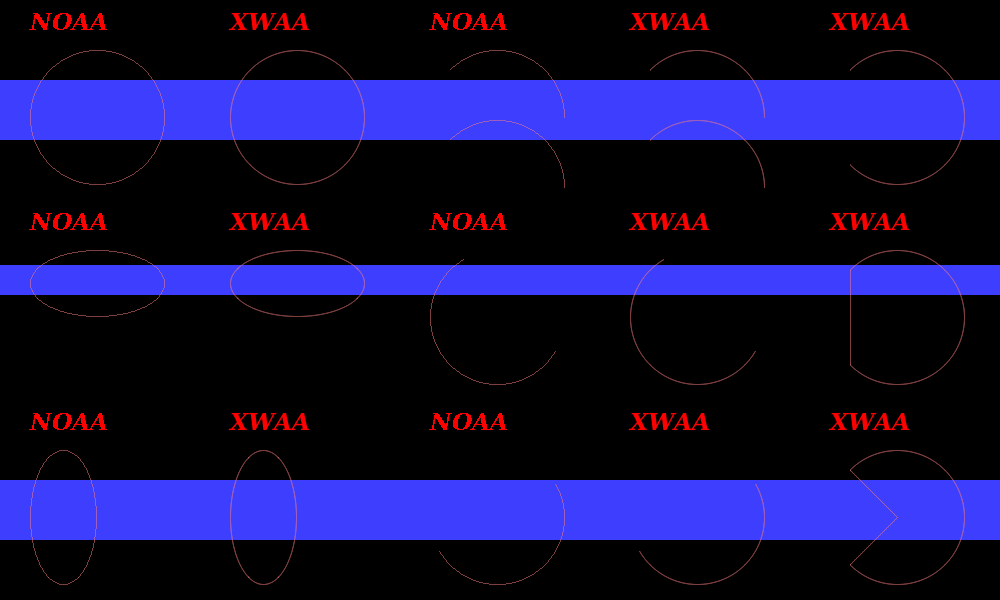
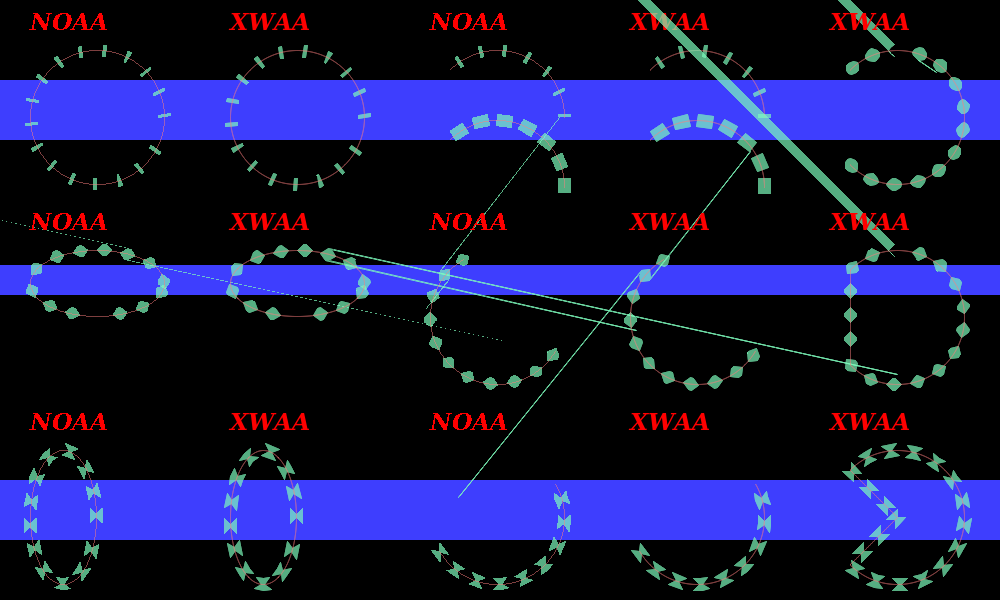
Working on patterned thick lines

diff --git a/src/Pt-Gfx/ImagePainter2.cpp b/src/Pt-Gfx/ImagePainter2.cpp
@@ -122,7 +122,7 @@ static inline bool intersectLine(bool& inLine, PointF& intersect, const PointF& 
 //           http://wm.ite.pl/articles/convex-polygon-intersection/demo/demo.xhtml
 //           http://wm.ite.pl/articles/convex-polygon-intersection/demo/SAT.js
 //           Public domain code by Wojciech Muła, 2013-2017
-static inline void satProjection(float& min, float& max, const PointF* points, size_t pointCount, const PointF& p)
+static inline void satDPIProjection(float& min, float& max, const PointF* points, size_t pointCount, const PointF& p)
 {
     min = points[0].x() * p.x() + points[0].y() * p.y();
     max = min;
@@ -139,8 +139,10 @@ static inline void satProjection(float& min, float& max, const PointF* points, s
 //           http://wm.ite.pl/articles/convex-polygon-intersection/demo/demo.xhtml
 //           http://wm.ite.pl/articles/convex-polygon-intersection/demo/SAT.js
 //           Public domain code by Wojciech Muła, 2013-2017
-static inline bool satProcess(const PointF* poly1, size_t poly1Count, const PointF* poly2, size_t poly2Count)
+static inline bool satDPIProcess(const PointF* poly1, size_t poly1Count, const PointF* poly2, size_t poly2Count)
 {
+    // ### TODO: NOT WORKING PROPERLY !!! ###
+
     #define FIX_INDEX(I, M)  ( ( (I) < 0 ) ? ( (I) + (M) ) : ( ( (I) >= (M) ) ? ( (I) - (M) ) : (I) ) )
 
     for(size_t i = 0; i < poly1Count; ++i) {
@@ -156,8 +158,8 @@ static inline bool satProcess(const PointF* poly1, size_t poly1Count, const Poin
         const PointF p(-dy, dx);
               float min1, max1;
               float min2, max2;
-        satProjection(min1, max1, poly1, poly1Count, p);
-        satProjection(min2, max2, poly2, poly2Count, p);
+        satDPIProjection(min1, max1, poly1, poly1Count, p);
+        satDPIProjection(min2, max2, poly2, poly2Count, p);
         // Check for interection
         if(max1 <= min2 || min1 >= max2) return true;
     }
@@ -168,12 +170,12 @@ static inline bool satProcess(const PointF* poly1, size_t poly1Count, const Poin
     return false;
 }
 
-static inline bool satDetectIntersection(const PointF* poly1, size_t poly1Count, const PointF* poly2, size_t poly2Count)
+static inline bool satDetectPolygonIntersection(const PointF* poly1, size_t poly1Count, const PointF* poly2, size_t poly2Count)
 {
-    const bool i1 = satProcess(poly1, poly1Count, poly2, poly2Count);
+    const bool i1 = satDPIProcess(poly1, poly1Count, poly2, poly2Count);
     if(i1) return false;
 
-    const bool i2 = satProcess(poly2, poly2Count, poly1, poly1Count);
+    const bool i2 = satDPIProcess(poly2, poly2Count, poly1, poly1Count);
     if(i2) return false;
 
     return true;
@@ -184,7 +186,7 @@ static inline bool satDetectIntersection(const PointF* poly1, size_t poly1Count,
 //           http://wm.ite.pl/articles/convex-polygon-intersection/demo/demo.xhtml
 //           http://wm.ite.pl/articles/convex-polygon-intersection/demo/line.js
 //           Public domain code by Wojciech Muła, 2013-2017
-static inline Pt::int32_t naiveLineSide(float la, float lb, float lc, const PointF& p)
+static inline Pt::int32_t naiveDPILineSide(float la, float lb, float lc, const PointF& p)
 {
     const Pt::int32_t val = la * p.x() + lb * p.y() + lc;
 
@@ -199,10 +201,10 @@ static inline Pt::int32_t naiveLineSide(float la, float lb, float lc, const Poin
 //           http://wm.ite.pl/articles/convex-polygon-intersection/demo/demo.xhtml
 //           http://wm.ite.pl/articles/convex-polygon-intersection/demo/naive.js
 //           Public domain code by Wojciech Muła, 2013-2017
-static inline Pt::int32_t naiveGetSide(float la, float lb, float lc, const PointF& p1, const PointF& p2)
+static inline Pt::int32_t naiveDPIGetSide(float la, float lb, float lc, const PointF& p1, const PointF& p2)
 {
-    const Pt::int32_t s1 = naiveLineSide(la, lb, lc, p1);
-    const Pt::int32_t s2 = naiveLineSide(la, lb, lc, p2);
+    const Pt::int32_t s1 = naiveDPILineSide(la, lb, lc, p1);
+    const Pt::int32_t s2 = naiveDPILineSide(la, lb, lc, p2);
 
     const Pt::int32_t s  = s1 * s2;
 
@@ -221,8 +223,10 @@ static inline Pt::int32_t naiveGetSide(float la, float lb, float lc, const Point
 //           http://wm.ite.pl/articles/convex-polygon-intersection/demo/demo.xhtml
 //           http://wm.ite.pl/articles/convex-polygon-intersection/demo/naive.js
 //           Public domain code by Wojciech Muła, 2013-2017
-static inline bool naiveDetectIntersection(const PointF* poly1, size_t poly1Count, const PointF* poly2, size_t poly2Count)
+static inline bool naiveDetectPolygonIntersection(const PointF* poly1, size_t poly1Count, const PointF* poly2, size_t poly2Count)
 {
+    // ### TODO: NOT WORKING PROPERLY !!! ###
+
     #define FIX_INDEX(I, M)  ( ( (I) < 0 ) ? ( (I) + (M) ) : ( ( (I) >= (M) ) ? ( (I) - (M) ) : (I) ) )
 
     for(size_t i = 0; i < poly1Count; ++i) {
@@ -240,8 +244,8 @@ static inline bool naiveDetectIntersection(const PointF* poly1, size_t poly1Coun
             const float lb = -( b2.x() - a2.x() );
             const float lc = -( la * a2.x() + lb * a2.y() );
             // Get the sides
-            const Pt::int32_t sideA = naiveGetSide(la, lb, lc, a1, a3);
-            const Pt::int32_t sideB = naiveGetSide(la, lb, lc, b1, b3);
+            const Pt::int32_t sideA = naiveDPIGetSide(la, lb, lc, a1, a3);
+            const Pt::int32_t sideB = naiveDPIGetSide(la, lb, lc, b1, b3);
             if(sideA == 0xFF || sideB == 0xFF) continue;
             if(sideA * sideB < 0) return true;
         }
@@ -252,12 +256,48 @@ static inline bool naiveDetectIntersection(const PointF* poly1, size_t poly1Coun
     return false;
 }
 
-static inline bool polyDetectIntersection(const PointF* poly1, size_t poly1Count, const PointF* poly2, size_t poly2Count)
+static inline bool bboxDetectPolygonIntersection(const PointF* poly1, size_t poly1Count, const PointF* poly2, size_t poly2Count)
 {
-    // ### TODO: NOT WORKING !!! ###
+    float minX1 = poly1[0].x();
+    float minY1 = poly1[0].y();
+    float maxX1 = minX1;
+    float maxY1 = minY1;
+    for(size_t i = 1; i < poly1Count; ++i) {
+        if(poly1[i].x() < minX1) minX1 = poly1[i].x();
+        if(poly1[i].y() < minY1) minY1 = poly1[i].y();
+        if(poly1[i].x() > maxX1) maxX1 = poly1[i].x();
+        if(poly1[i].y() > maxY1) maxY1 = poly1[i].y();
+    }
+
+    float minX2 = poly2[0].x();
+    float minY2 = poly2[0].y();
+    float maxX2 = minX2;
+    float maxY2 = minY2;
+    for(size_t i = 1; i < poly2Count; ++i) {
+        if(poly2[i].x() < minX2) minX2 = poly2[i].x();
+        if(poly2[i].y() < minY2) minY2 = poly2[i].y();
+        if(poly2[i].x() > maxX2) maxX2 = poly2[i].x();
+        if(poly2[i].y() > maxY2) maxY2 = poly2[i].y();
+    }
+
+#define CHECK_IF_INSIDE_BOUNDING_BOX(X, Y, X1, Y1, X2, Y2) if( (X) >= (X1) && (X) <= (X2) && (Y) >= (Y1) && Y <= (Y2) ) return true
+
+    CHECK_IF_INSIDE_BOUNDING_BOX(minX2, minY2, minX1, minY1, maxX1, maxY1);
+    CHECK_IF_INSIDE_BOUNDING_BOX(minX2, maxY2, minX1, minY1, maxX1, maxY1);
+    CHECK_IF_INSIDE_BOUNDING_BOX(maxX2, minY2, minX1, minY1, maxX1, maxY1);
+    CHECK_IF_INSIDE_BOUNDING_BOX(maxX2, maxY2, minX1, minY1, maxX1, maxY1);
+
+#undef CHECK_INSIDE_BOUNDING_BOX
+
     return false;
-    return satDetectIntersection  (poly1, poly1Count, poly2, poly2Count);
-    return naiveDetectIntersection(poly1, poly1Count, poly2, poly2Count);
+}
+
+static inline bool detectPolygonIntersection(const PointF* poly1, size_t poly1Count, const PointF* poly2, size_t poly2Count)
+{
+      return false;
+    //return bboxDetectPolygonIntersection (poly1, poly1Count, poly2, poly2Count);
+    //return satDetectPolygonIntersection  (poly1, poly1Count, poly2, poly2Count);
+    //return naiveDetectPolygonIntersection(poly1, poly1Count, poly2, poly2Count);
 }
 
 
@@ -897,6 +937,13 @@ void ImagePainter2::drawEllipse( const PointF& topLeft, const SizeF& size )
         return;
     }
 
+    // Calculate the ellipse's parameters
+    const size_t      penSize  = _rasterizer->pen().size();
+    const Pt::int32_t radiusX  = size.width () / 2;
+    const Pt::int32_t radiusY  = size.height() / 2;
+    const Pt::int32_t centerX  = topLeft.x() + radiusX;
+    const Pt::int32_t centerY  = topLeft.y() + radiusY;
+
     // Save the original pen and create a new pen with miter join
     const Pen orgPen = _rasterizer->pen();
 
@@ -905,14 +952,11 @@ void ImagePainter2::drawEllipse( const PointF& topLeft, const SizeF& size )
 
     // Solid
     if(_rasterizer->pen().style() == Pen::Solid) {
-        // Calculate the ellipse's parameters
-        const size_t      penSize  = _rasterizer->pen().size();
+        // Calculate the additional ellipse's parameters
         const Pt::int32_t radiusXo = ( size.width () + penSize ) / 2;
         const Pt::int32_t radiusYo = ( size.height() + penSize ) / 2;
         const Pt::int32_t radiusXi = ( size.width () - penSize ) / 2;
         const Pt::int32_t radiusYi = ( size.height() - penSize ) / 2;
-        const Pt::int32_t centerX  = topLeft.x() + size.width () / 2;
-        const Pt::int32_t centerY  = topLeft.y() + size.height() / 2;
         // Generate a polygon that approximates the ellipse
         std::vector<Point> points;
         generateEllipsePoints(points, radiusXo, radiusYo, centerX, centerY);
@@ -926,7 +970,18 @@ void ImagePainter2::drawEllipse( const PointF& topLeft, const SizeF& size )
 
     // Patterned
     else {
-        // ### TODO ###
+        // Generate a polygon that approximates the ellipse
+        std::vector<Point> points;
+        generateEllipsePoints(points, radiusX, radiusY, centerX, centerY);
+        // Convert the points
+        std::vector<PointF> pointsF(points.size());
+        for(size_t i = 0; i < points.size(); ++i) {
+            pointsF[i].set( points[i].x(), points[i].y() );
+        }
+        // Rasterize the polygon
+        _rasterizer->setPen(newPen);
+        drawThickPolyline_impl(pointsF.data(), pointsF.size(), false, 0);
+        _rasterizer->setPen(orgPen);
     }
 }
 
@@ -951,12 +1006,6 @@ void ImagePainter2::drawArc( const PointF& topLeft, const SizeF& size, float deg
         _rasterizer->strokeOnePixelEllipseArc(tl, sz, degBegin, degEnd, arcMode);
         return;
     }
-
-    // Save the original pen and create a new pen with miter join
-    const Pen orgPen = _rasterizer->pen();
-
-    Pen newPen = orgPen;
-    newPen.setJoinStyle(Pen::MiterJoin);
 
     // Ensure that the begin angle is within the acceptable range
     while(degBegin < -360.0f) degBegin += 360.0f;
@@ -987,15 +1036,25 @@ void ImagePainter2::drawArc( const PointF& topLeft, const SizeF& size, float deg
     const float idegBegin = (degBegin < 0) ? (degBegin + aafd) : (degBegin - aafd);
     const float idegEnd   = (degEnd   < 0) ? (degEnd   + aafd) : (degEnd   - aafd);
 
+    // Calculate the arc's parameters
+    const Pt::int32_t radiusX = size.width () / 2;
+    const Pt::int32_t radiusY = size.height() / 2;
+    const Pt::int32_t centerX = topLeft.x() + radiusX;
+    const Pt::int32_t centerY = topLeft.y() + radiusY;
+
+    // Save the original pen and create a new pen with miter join
+    const Pen orgPen = _rasterizer->pen();
+
+    Pen newPen = orgPen;
+    newPen.setJoinStyle(Pen::MiterJoin);
+
     // Solid
     if(_rasterizer->pen().style() == Pen::Solid) {
-        // Calculate the arc's parameters
+        // Calculate the additional arc's parameters
         const Pt::int32_t radiusXo   = ( size.width () + penSize ) / 2;
         const Pt::int32_t radiusYo   = ( size.height() + penSize ) / 2;
         const Pt::int32_t radiusXi   = ( size.width () - penSize ) / 2;
         const Pt::int32_t radiusYi   = ( size.height() - penSize ) / 2;
-        const Pt::int32_t centerX    = topLeft.x() + size.width () / 2;
-        const Pt::int32_t centerY    = topLeft.y() + size.height() / 2;
         const Pt::int32_t centerXsub = round(centerX - shiftXps);
         const Pt::int32_t centerYsub = round(centerY - shiftYps);
         const Pt::int32_t centerXadd = round(centerX + shiftXps);
@@ -1035,7 +1094,29 @@ void ImagePainter2::drawArc( const PointF& topLeft, const SizeF& size, float deg
 
     // Patterned
     else {
-        // ### TODO ###
+        // Generate a polygon that approximates the arc
+        std::vector<Point> points;
+        if(arcMode == ArcMode::Chord) {
+            generateArcPoints(points, radiusX, radiusY, centerX, centerY, degBegin, degEnd);
+            points.push_back( points[0] );
+        }
+        else if(arcMode == ArcMode::Pie) {
+            points.push_back( Point(centerX, centerY) );
+            generateArcPoints(points, radiusX, radiusY, centerX, centerY, degBegin, degEnd);
+            points.push_back( Point(centerX, centerY) );
+        }
+        else { // ArcMode::Open
+            generateArcPoints(points, radiusX, radiusY, centerX, centerY, degBegin, degEnd);
+        }
+        // Convert the points
+        std::vector<PointF> pointsF(points.size());
+        for(size_t i = 0; i < points.size(); ++i) {
+            pointsF[i].set( points[i].x(), points[i].y() );
+        }
+        // Rasterize the polygon
+        _rasterizer->setPen(newPen);
+        drawThickPolyline_impl(pointsF.data(), pointsF.size(), false, 0);
+        _rasterizer->setPen(orgPen);
     }
 }
 
@@ -1706,14 +1787,14 @@ bool ImagePainter2::sagPolygonPoints(SAGOpState& state, bool draw)
                 // Check for intersection with the first polygons in the final destination buffer
                 bool intersect = false;
                 if(state.dstPCount0) {
-                    intersect = polyDetectIntersection(&state.dstPoints[0], state.dstPCount0, dstPoints.data(), dstPoints.size());
+                    intersect = detectPolygonIntersection(&state.dstPoints[0], state.dstPCount0, dstPoints.data(), dstPoints.size());
                 }
                 else {
                     state.dstPCount0 = dstPoints.size();
                 }
                 // Check for intersection with the previous polygons in the final destination buffer
                 if(!intersect && state.dstPCount && state.dstPStart) {
-                    intersect = polyDetectIntersection(&state.dstPoints[state.dstPStart], state.dstPCount,  dstPoints.data(), dstPoints.size());
+                    intersect = detectPolygonIntersection(&state.dstPoints[state.dstPStart], state.dstPCount,  dstPoints.data(), dstPoints.size());
                 }
                 if(!intersect) {
                     state.dstPStart = state.dstPoints.size();
@@ -1836,7 +1917,7 @@ void ImagePainter2::sagGenerateSimpleLineSegment(SAGOpState& state, float x1, fl
 
     // Check for intersection with the first polygons in the final destination buffer
     if(state.dstPCount0) {
-        if( polyDetectIntersection(&state.dstPoints[0], state.dstPCount0, dstPoints.data(), dstPoints.size()) ) return;
+        if( detectPolygonIntersection(&state.dstPoints[0], state.dstPCount0, dstPoints.data(), dstPoints.size()) ) return;
     }
     else {
         state.dstPCount0 = dstPoints.size();
@@ -1844,7 +1925,7 @@ void ImagePainter2::sagGenerateSimpleLineSegment(SAGOpState& state, float x1, fl
 
     // Check for intersection with the previous polygons in the final destination buffer
     if(state.dstPCount && state.dstPStart) {
-        if( polyDetectIntersection(&state.dstPoints[state.dstPStart], state.dstPCount,  dstPoints.data(), dstPoints.size()) ) return;
+        if( detectPolygonIntersection(&state.dstPoints[state.dstPStart], state.dstPCount,  dstPoints.data(), dstPoints.size()) ) return;
     }
     state.dstPStart = state.dstPoints.size();
     state.dstPCount = dstPoints.size();

diff --git a/src/Pt-Gfx/tests/ImagePainterTest2.cpp b/src/Pt-Gfx/tests/ImagePainterTest2.cpp
@@ -68,7 +68,7 @@ using namespace Pt::Gfx;
 
 // General settings for Pt-Gfx
 #define DO_TEST_DRAW    1
-#define DO_BENCHMARKING 0
+#define DO_BENCHMARKING 1
 
 // Detailed-test enable settings for Pt-Gfx
 #define TEST_SOURCECOPY                         0
@@ -83,7 +83,7 @@ using namespace Pt::Gfx;
 #define TEST_DRAW_ROUND_OMPF_RECTANGLES         0 // (including thick and filled) // ### TODO: Missing pattern !!! ###
 #define TEST_DRAW_ELLIPSES_ARCS                 0
 #define TEST_DRAW_SOLID_THICK_ELLIPSES_ARCS     0
-#define TEST_DRAW_PATTERNED_THICK_ELLIPSES_ARCS 0
+#define TEST_DRAW_PATTERNED_THICK_ELLIPSES_ARCS 0                                 // ### TODO: Stra lines !!! ###
 
 #define TEST_DRAW_SOLID_FILLED_POLYGONS         0
 #define TEST_DRAW_GRADIENT_FILLED_POLYGONS      0
